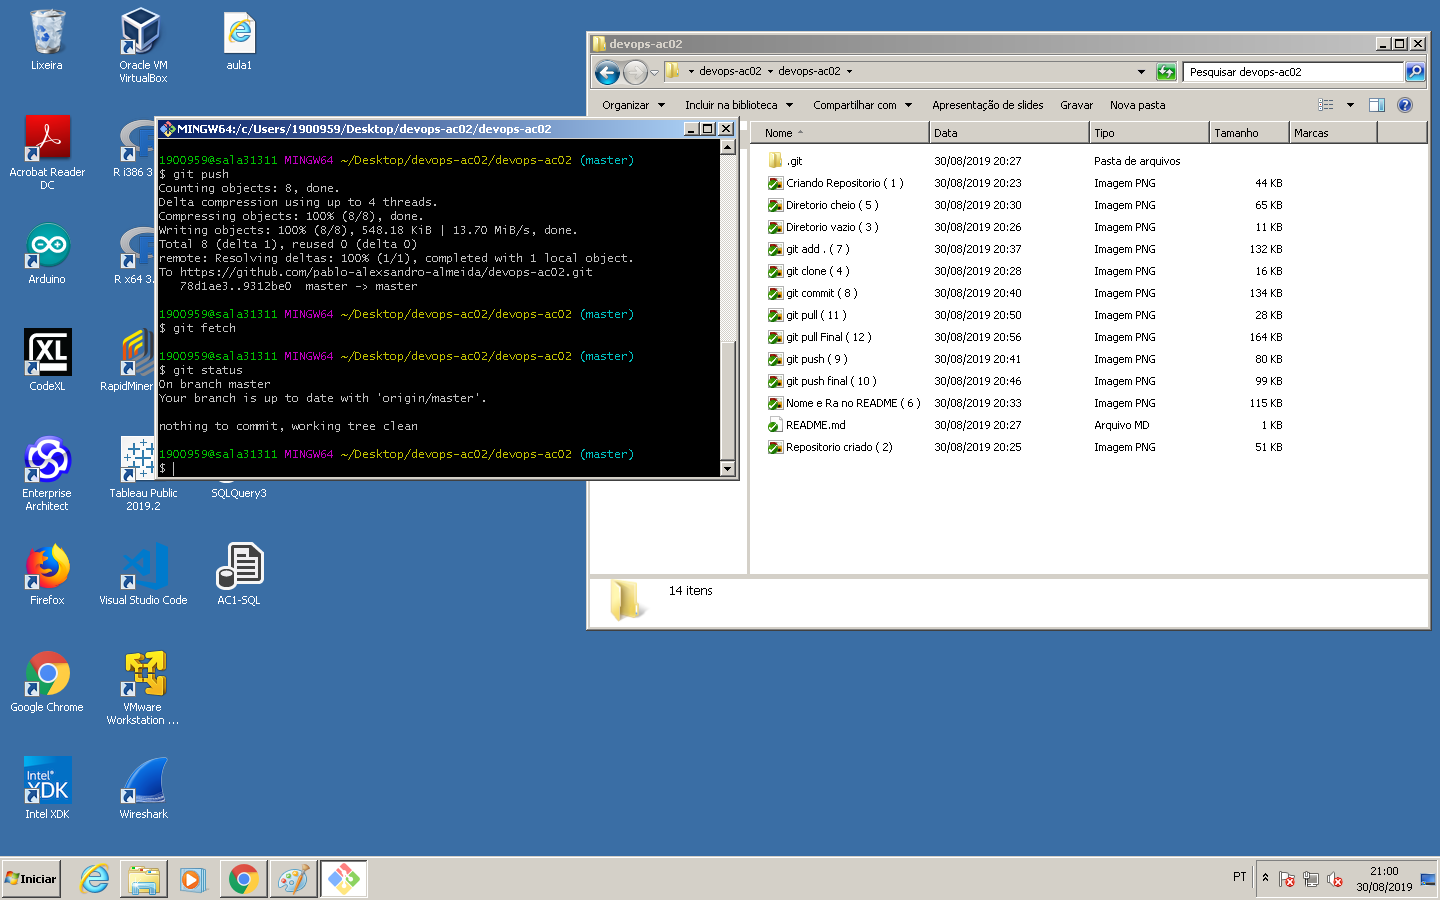
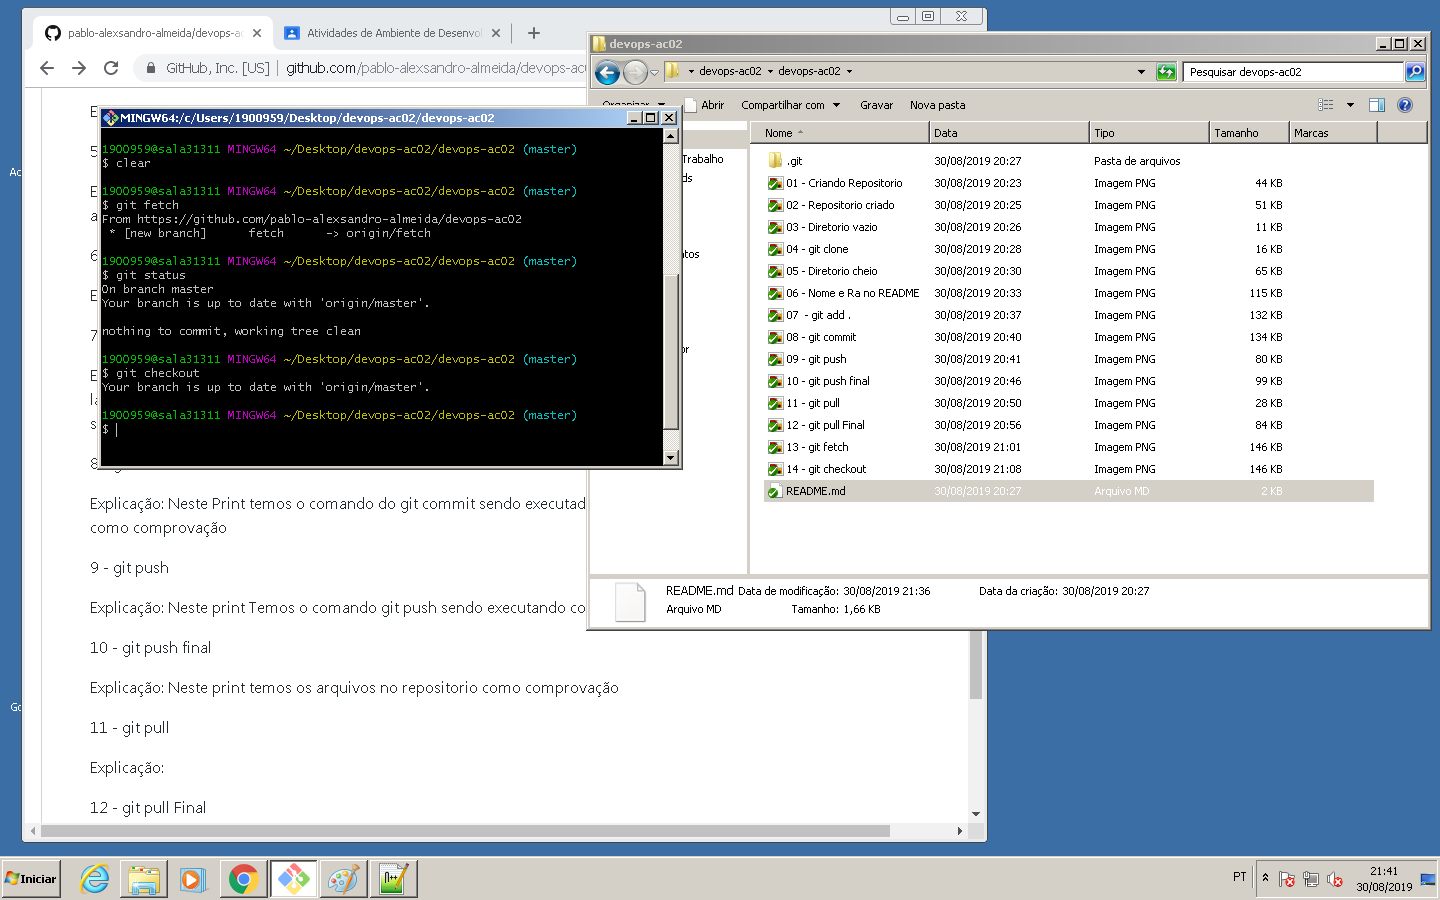
Final

diff --git a/README.md b/README.md
@@ -1,59 +1,59 @@
 # devops-ac02
 
-Pablo Alexsandro De Almeida RA: 1900959
+Pablo Alexsandro De Almeida RA: 1900959  
 
-1 - Criando Repositorio
+1 - Criando Repositorio  
 
-Explicação: Neste Print temos a criação do repositorio
+Explicação: Neste Print temos a criação do repositorio  
 
-2 - Repositorio criado
+2 - Repositorio criado  
 
-Explicação: Neste Print temos comprovado que o repositorio devops-ac02 foi criado
+Explicação: Neste Print temos comprovado que o repositorio devops-ac02 foi criado  
 
-3 - Diretorio vazio
+3 - Diretorio vazio  
 
-Explicação: Neste Print temos comprovado que o ditorio esta vazio para receber o clone do respositorio
+Explicação: Neste Print temos comprovado que o ditorio esta vazio para receber o clone do respositorio  
 
-4 - git clone
+4 - git clone  
 
-Explicação: Neste Print temos o comando git clone sendo executado
+Explicação: Neste Print temos o comando git clone sendo executado  
 
-5 - Diretorio cheio
+5 - Diretorio cheio  
 
-Explicação: Neste Print temos comprovado que o comando git clone foi executado com sucesso pois o repositorio este com os arquivos.
+Explicação: Neste Print temos comprovado que o comando git clone foi executado com sucesso pois o repositorio este com os arquivos.  
 
-6 - Nome e Ra no README
+6 - Nome e Ra no README  
 
-Explicação: Neste Print Estamos alterando o arquivo README inserindo o nome juno ao RA
+Explicação: Neste Print Estamos alterando o arquivo README inserindo o nome junto ao RA  
 
-7  - git add . 
+7  - git add .  
 
-Explicação: Neste print temos o comando git add . sendo executado, podemos comprovar sua efetividade com a imagem ao lado com cado arquivo esperando o commit alem de poder executar o comando git status e verificar que o proximo comando sugerido sera git commit
+Explicação: Neste print temos o comando git add . sendo executado, podemos comprovar sua efetividade com a imagem ao lado com cado arquivo esperando o commit alem de poder executar o comando git status e verificar que o proximo comando sugerido sera git commit  
 
-8 - git commit
+8 - git commit  
 
-Explicação: Neste Print temos o comando do git commit sendo executado com cusso e temos o sibolo de status dos arquivos como comprovação
+Explicação: Neste Print temos o comando do git commit sendo executado com cusso e temos o sibolo de status dos arquivos como comprovação  
 
-9 - git push
+9 - git push  
 
-Explicação: Neste print Temos o comando git push sendo executando com sucesso
+Explicação: Neste print Temos o comando git push sendo executando com sucesso  
 
-10 - git push final
+10 - git push final  
 
-Explicação: Neste print temos os arquivos no repositorio como comprovação
+Explicação: Neste print temos os arquivos no repositorio como comprovação  
 
-11 - git pull
+11 - git pull  
 
-Explicação: Neste comando temos a executado do git pull
+Explicação: Neste comando temos a executado do git pull  
 
-12 - git pull Final
+12 - git pull Final  
 
-Explicação: Neste print temos a comprovação da execução do git pull pois foi identificado a criação de uma branch 
+Explicação: Neste print temos a comprovação da execução do git pull pois foi identificado a criação de uma branch   
 
-13 - git fetch
+13 - git fetch  
 
-Explicação: 
+Explicação: Neste print temos a execução do git fecth com a branch que foi criada, atualizando somente para diretorio do repositorioe nao workspace  
 
-14 - git checkout
+14 - git checkout  
 
-Explicação: 
+Explicação: Git checkout volta do repositorio local para o ditorio de trabalho, print comprovando  
